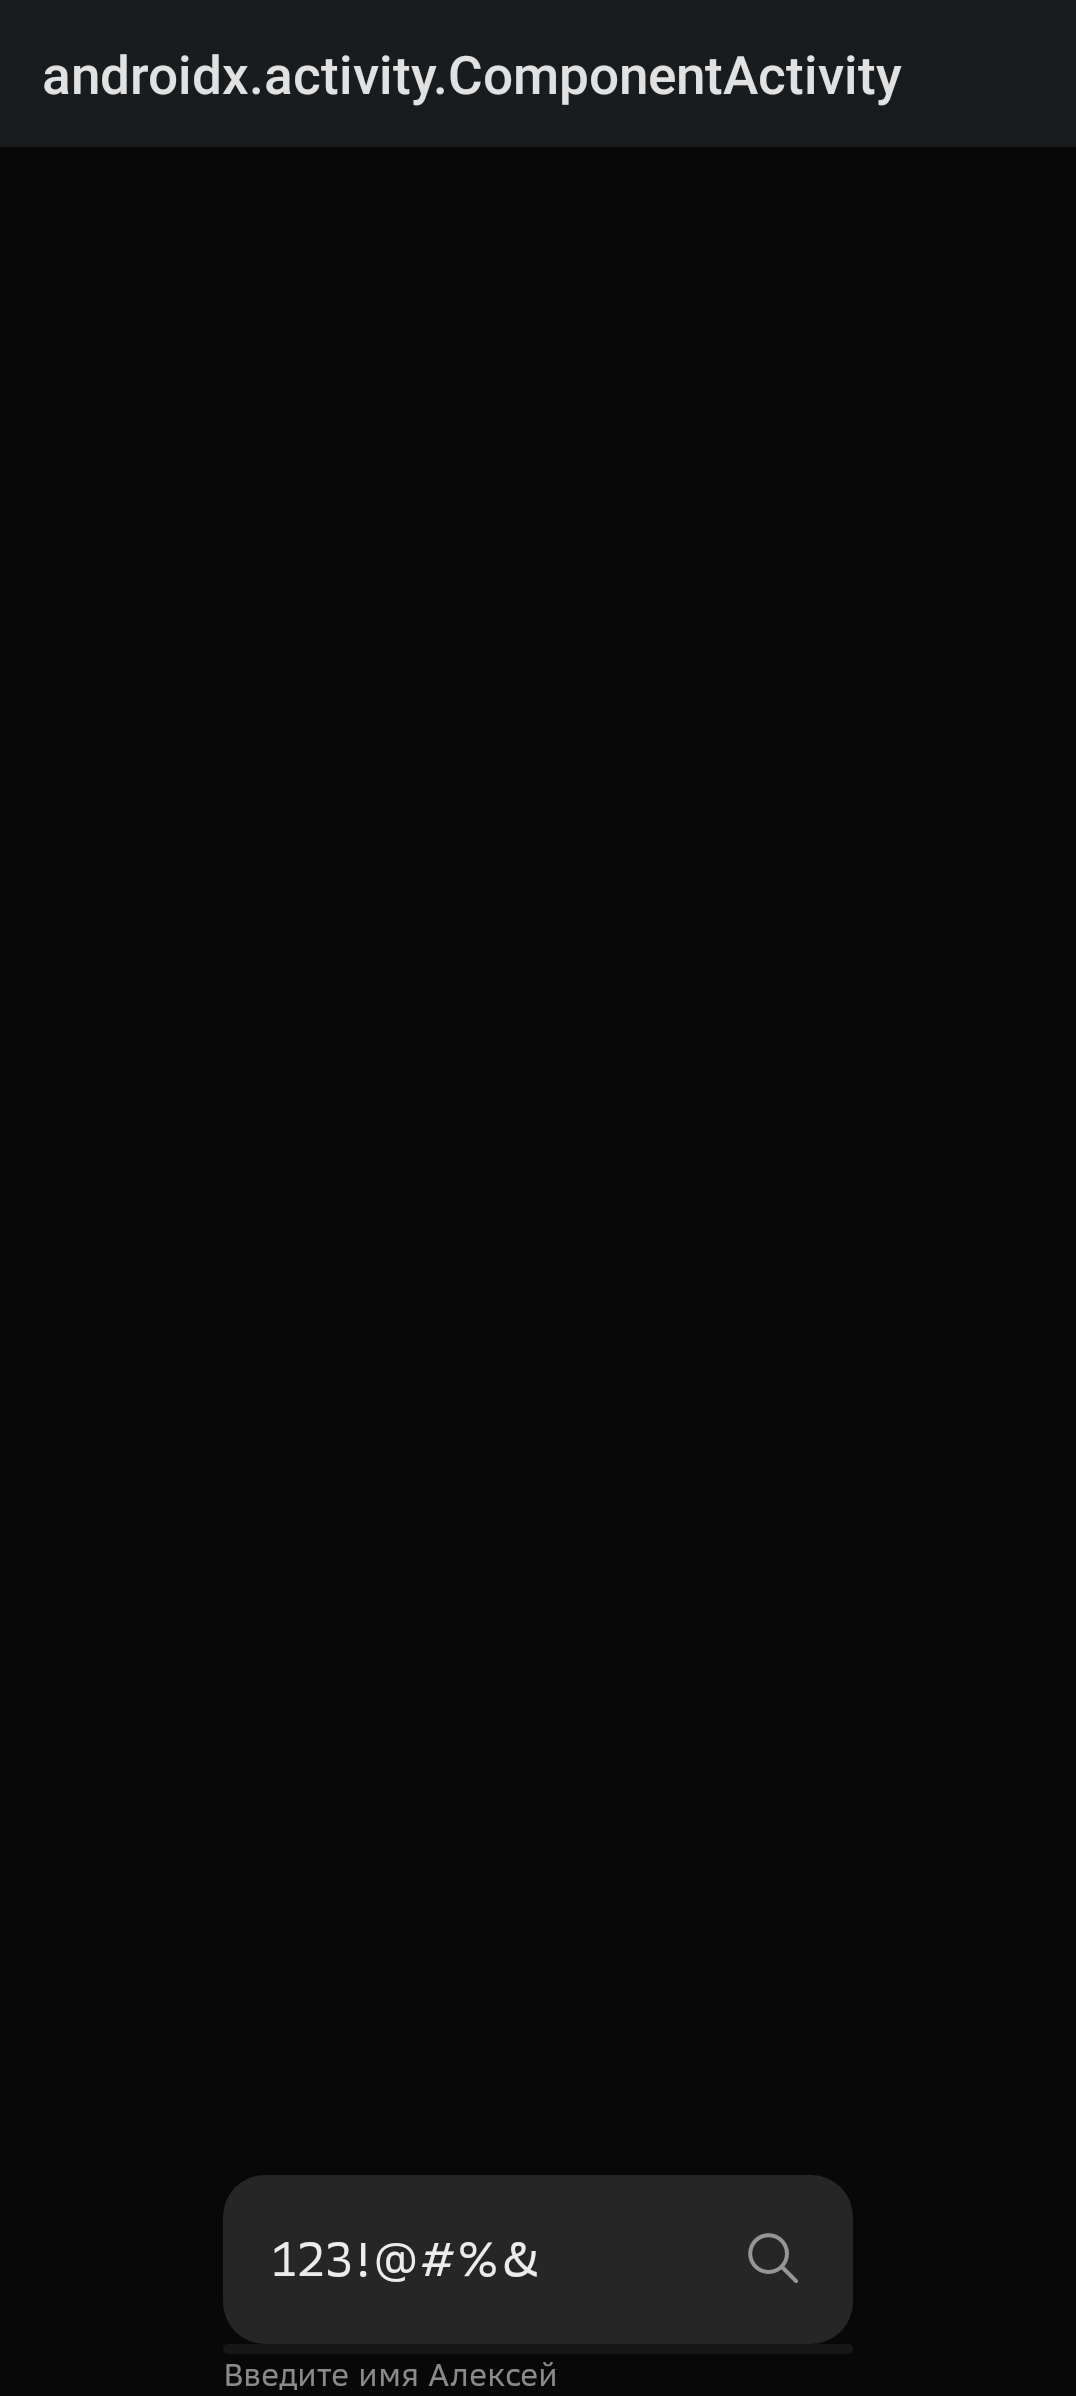
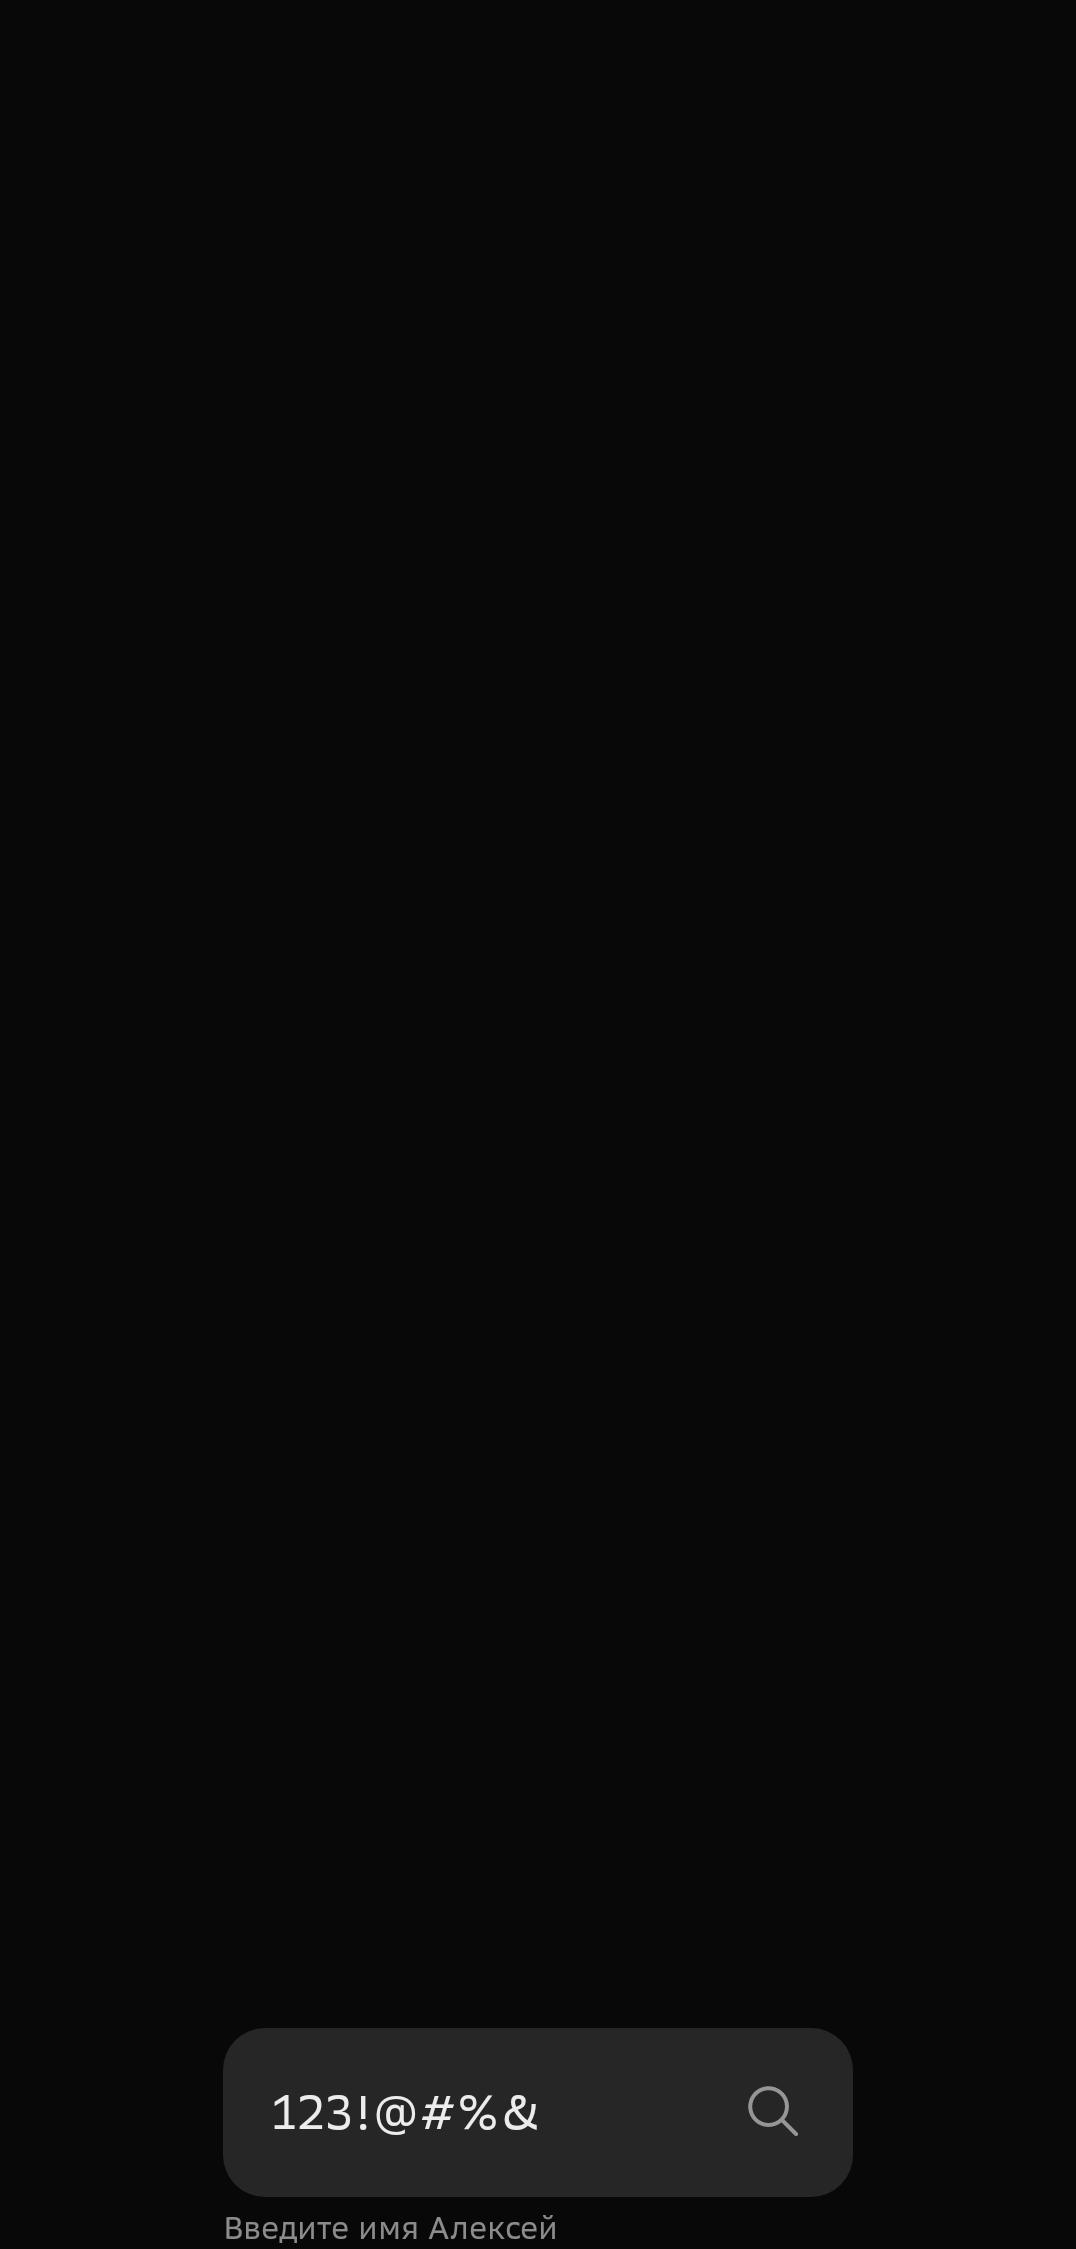
test(sdds-acore/testing): Fix screenshot and refactored code

Changed region(s): [[0.2147, 0.9026, 0.7974, 0.996], [0.0307, 0.0, 0.8281, 0.0622]]

diff --git a/sdds-core/testing/src/main/kotlin/com/sdds/testing/compose/autocomplete/AutocompleteTestCases.kt b/sdds-core/testing/src/main/kotlin/com/sdds/testing/compose/autocomplete/AutocompleteTestCases.kt
@@ -25,6 +25,7 @@ import androidx.compose.ui.unit.dp
 import com.sdds.compose.uikit.Autocomplete
 import com.sdds.compose.uikit.AutocompleteStyle
 import com.sdds.compose.uikit.DropdownProperties
+import com.sdds.compose.uikit.DropdownScope
 import com.sdds.compose.uikit.EmptyState
 import com.sdds.compose.uikit.Icon
 import com.sdds.compose.uikit.ListItem
@@ -62,7 +63,13 @@ fun AutoCompleteEmptyStateCenterStart(style: AutocompleteStyle) {
     CommonAutocompleteForTest(
         alignment = Alignment.CenterStart,
         style = style,
-        emptyState = {},
+        emptyState = {
+            EmptyState(
+                iconRes = com.sdds.icons.R.drawable.ic_plasma_36,
+                description = "Empty State",
+                buttonLabel = "Action",
+            )
+        },
     )
 }
 
@@ -149,19 +156,26 @@ fun AutoCompleteBottomEnd(style: AutocompleteStyle) {
  * Общий autocomplete для тестов
  */
 @Composable
-fun CommonAutocompleteForTest(
+private fun CommonAutocompleteForTest(
     alignment: Alignment,
     style: AutocompleteStyle,
     placementMode: PopoverPlacementMode = PopoverPlacementMode.Strict,
     loadingComponent: @Composable (() -> Unit)? = null,
-    emptyState: @Composable (() -> Unit)? = null,
+    emptyState: @Composable (DropdownScope.() -> Unit)? = null,
 ) {
     Box(modifier = Modifier.fillMaxSize()) {
         var showDropdown by remember { mutableStateOf(false) }
         var text by remember { mutableStateOf(TextFieldValue()) }
         val textFieldInteractionSource = remember { MutableInteractionSource() }
-        val filteredList = AutocompleteSuggestions.filterSuggestions(text.text)
-        val showEmptyState = filteredList.isEmpty()
+        val filteredList =
+            remember {
+                mutableListOf<String>().apply {
+                    addAll(
+                        AutocompleteSuggestions.filterSuggestions(text.text),
+                    )
+                }
+            }
+        val showEmptyState = emptyState != null && filteredList.isEmpty()
 
         Autocomplete(
             modifier = Modifier
@@ -172,30 +186,19 @@ fun CommonAutocompleteForTest(
             onDismissRequest = { showDropdown = false },
             style = style,
             field = {
-                TextField(
-                    modifier = Modifier.width(240.dp),
-                    value = text,
-                    placeholderText = "Сотрудник",
-                    captionText = "Введите имя Алексей",
+                TextFieldForTest(
+                    text = text,
                     onValueChange = {
                         text = it
-                        showDropdown = true
+                        filteredList.clear()
+                        filteredList.addAll(AutocompleteSuggestions.filterSuggestions(text.text))
+                        showDropdown = filteredList.isNotEmpty() || emptyState != null
                     },
-                    endContent = {
-                        Icon(painter = painterResource(com.sdds.icons.R.drawable.ic_search_24), "")
-                    },
-                    focusSelectorSettings = FocusSelectorSettings.None,
                     interactionSource = textFieldInteractionSource,
                 )
             },
-            showEmptyState = showEmptyState && emptyState != null,
-            emptyState = {
-                EmptyState(
-                    iconRes = com.sdds.icons.R.drawable.ic_plasma_36,
-                    description = "Empty State",
-                    buttonLabel = "Action",
-                )
-            },
+            showEmptyState = showEmptyState,
+            emptyState = emptyState,
             footer = loadingComponent,
         ) {
             items(filteredList.size) { index ->
@@ -212,6 +215,27 @@ fun CommonAutocompleteForTest(
             }
         }
     }
+}
+
+@Composable
+private fun TextFieldForTest(
+    text: TextFieldValue,
+    onValueChange: (TextFieldValue) -> Unit,
+    interactionSource: MutableInteractionSource,
+    modifier: Modifier = Modifier,
+) {
+    TextField(
+        modifier = Modifier.width(240.dp),
+        value = text,
+        placeholderText = "Сотрудник",
+        captionText = "Введите имя Алексей",
+        onValueChange = onValueChange,
+        endContent = {
+            Icon(painter = painterResource(com.sdds.icons.R.drawable.ic_search_24), "")
+        },
+        focusSelectorSettings = FocusSelectorSettings.None,
+        interactionSource = interactionSource,
+    )
 }
 
 @Composable
